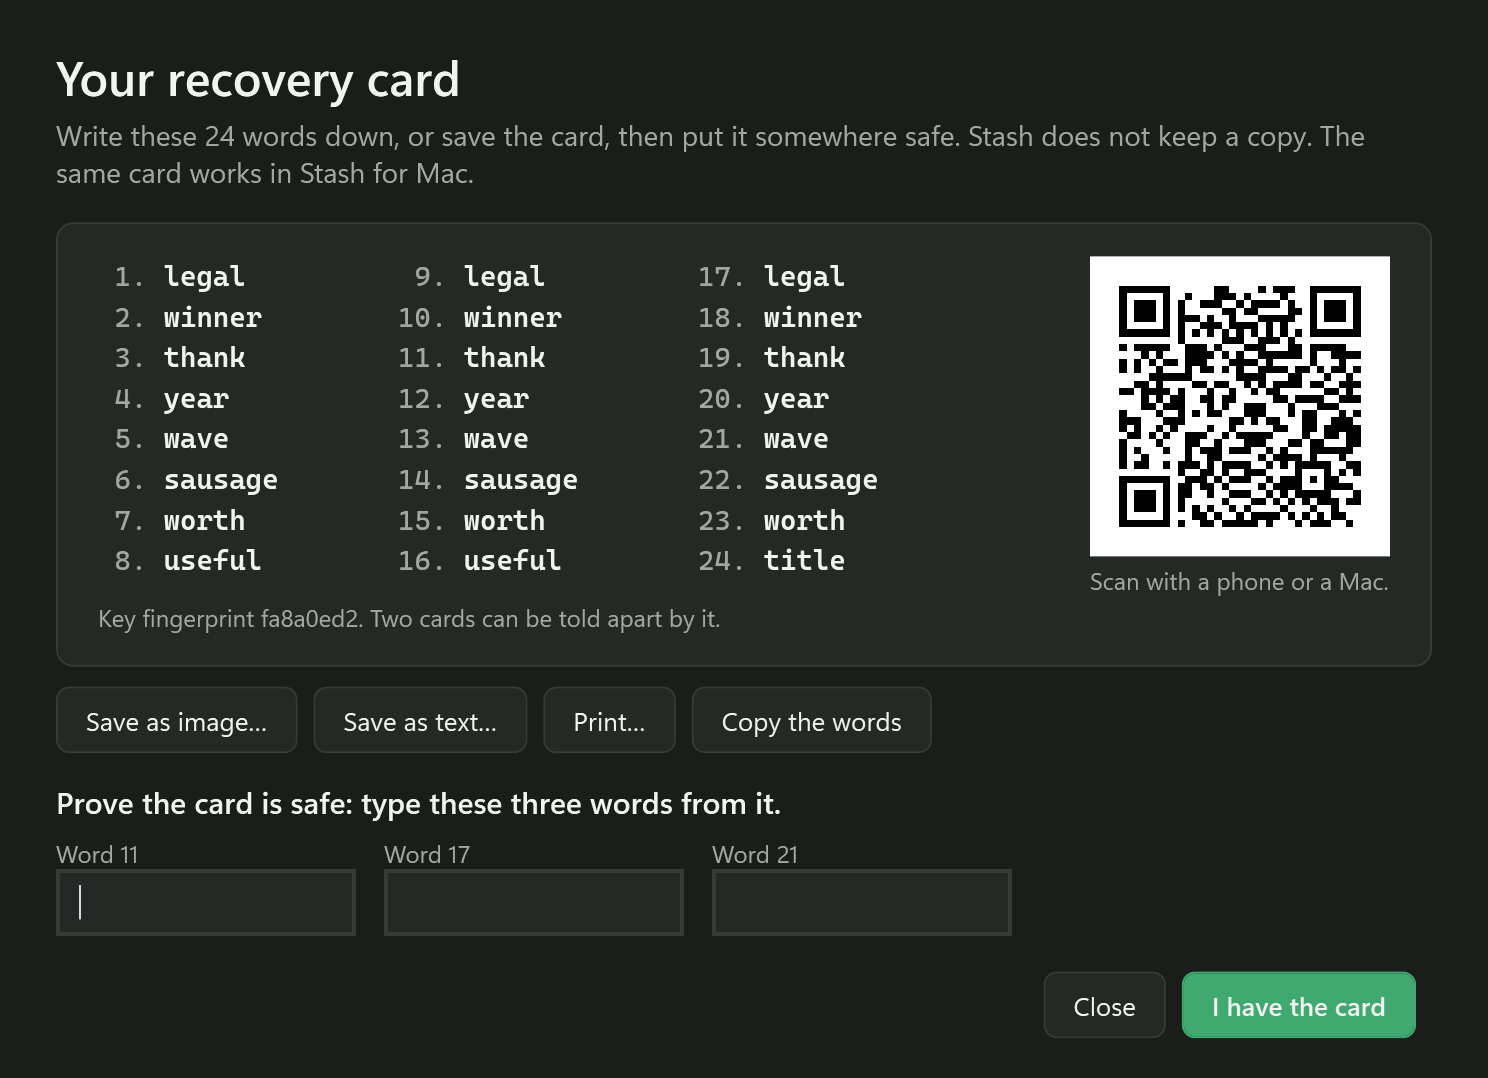
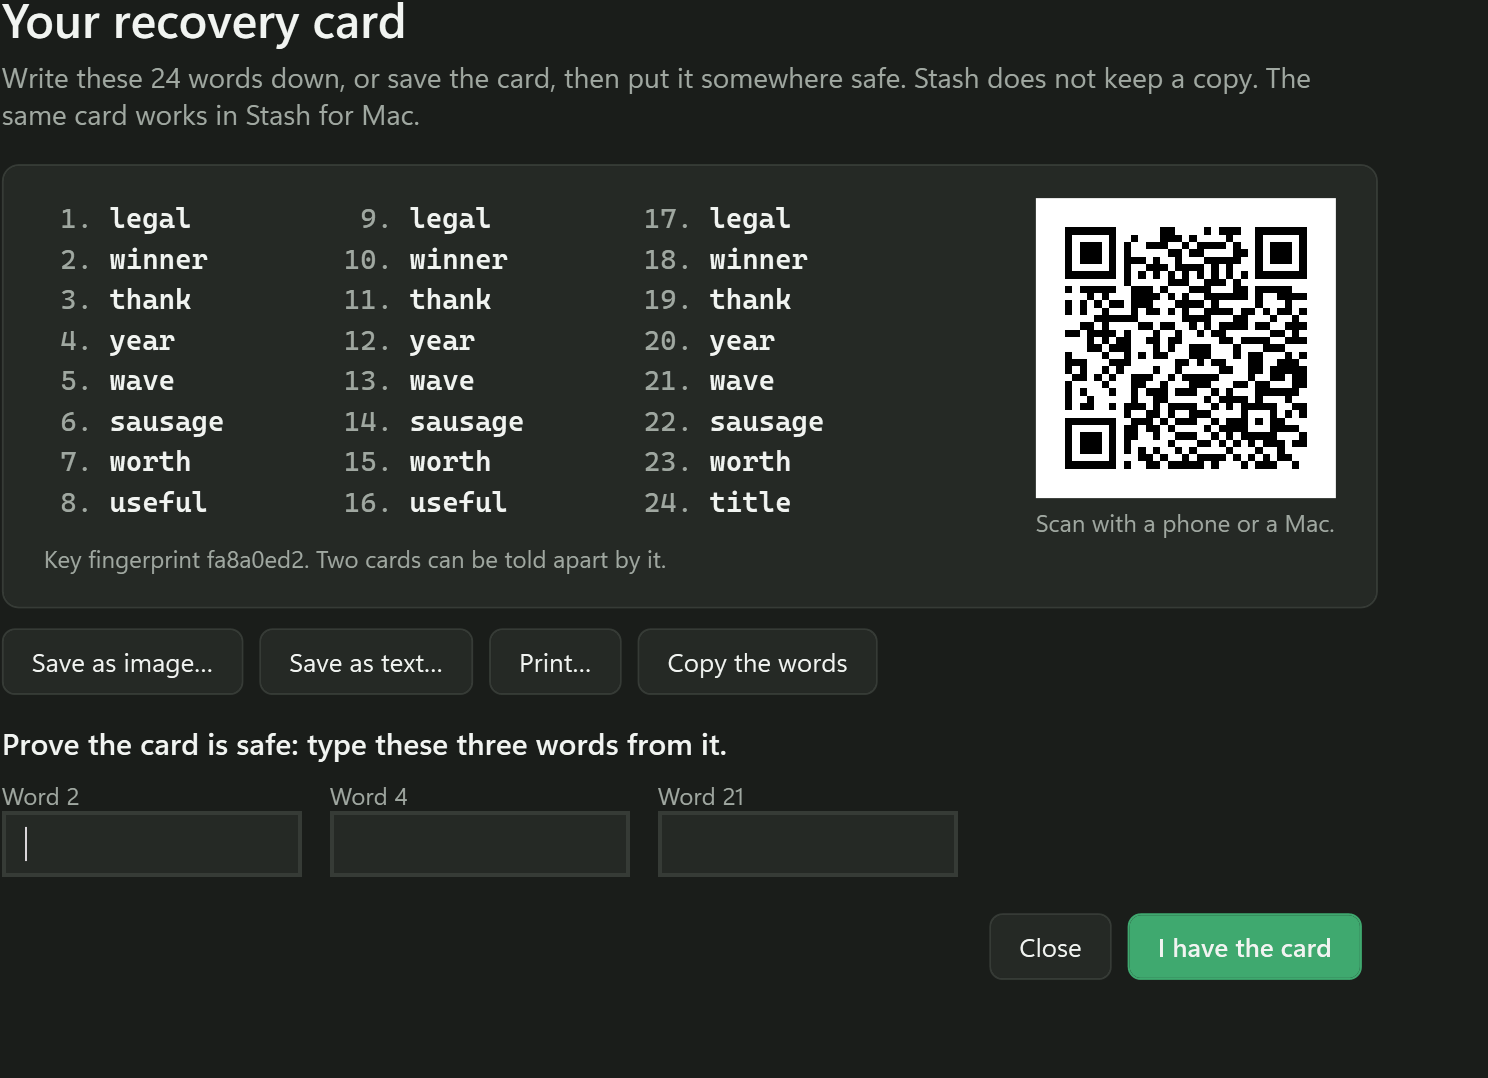
Screenshot capture through a VisualBrush so dialogs are not clipped

diff --git a/src/Stash/Screenshots.cs b/src/Stash/Screenshots.cs
@@ -45,11 +45,17 @@ public static class Screenshots
     public static RenderTargetBitmap Capture(FrameworkElement root)
     {
         root.UpdateLayout();
-        var bg = new Border { Background = (Brush)Application.Current.Resources["Ground"], Width = root.ActualWidth, Height = root.ActualHeight };
-        var bmp = new RenderTargetBitmap((int)(root.ActualWidth * 2), (int)(root.ActualHeight * 2), 192, 192, PixelFormats.Pbgra32);
-        bg.Measure(new Size(root.ActualWidth, root.ActualHeight)); bg.Arrange(new Rect(0, 0, root.ActualWidth, root.ActualHeight));
-        bmp.Render(bg);
-        bmp.Render(root);
+        // Draw through a VisualBrush so the element's own offset inside its window (a margin, a scroll viewer's padding) does not shift the picture.
+        var w = root.ActualWidth + root.Margin.Left + root.Margin.Right;
+        var h = root.ActualHeight + root.Margin.Top + root.Margin.Bottom;
+        var dv = new DrawingVisual();
+        using (var dc = dv.RenderOpen())
+        {
+            dc.DrawRectangle((Brush)Application.Current.Resources["Ground"], null, new Rect(0, 0, w, h));
+            dc.DrawRectangle(new VisualBrush(root) { Stretch = Stretch.None, AlignmentX = AlignmentX.Left, AlignmentY = AlignmentY.Top }, null, new Rect(root.Margin.Left, root.Margin.Top, root.ActualWidth, root.ActualHeight));
+        }
+        var bmp = new RenderTargetBitmap((int)(w * 2), (int)(h * 2), 192, 192, PixelFormats.Pbgra32);
+        bmp.Render(dv);
         return bmp;
     }
 
